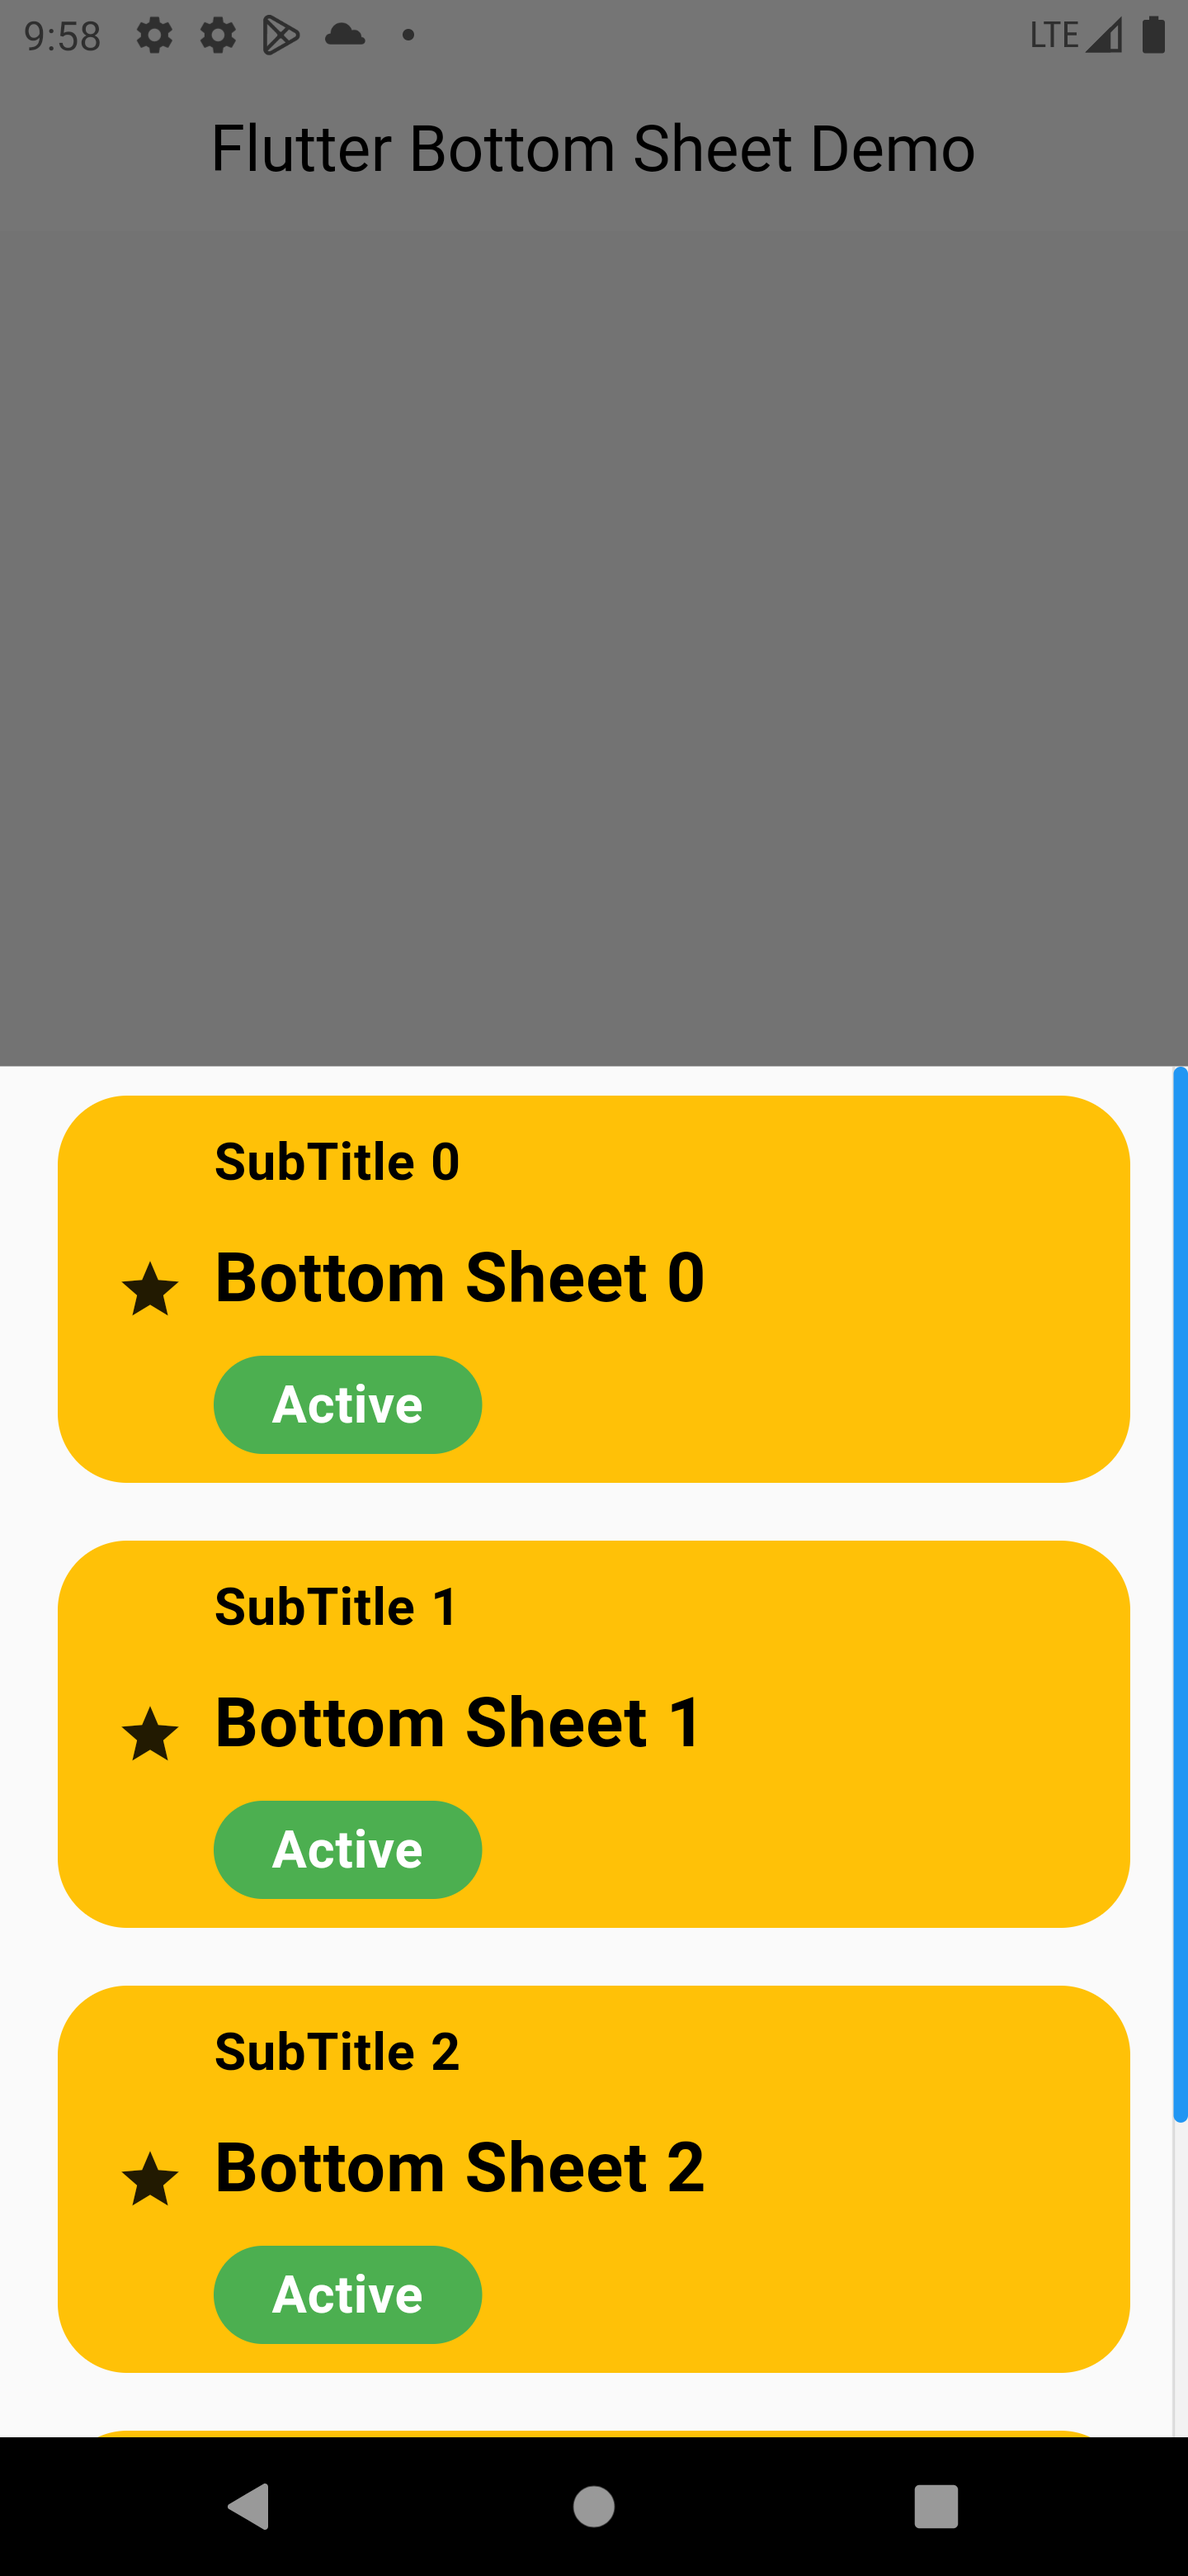
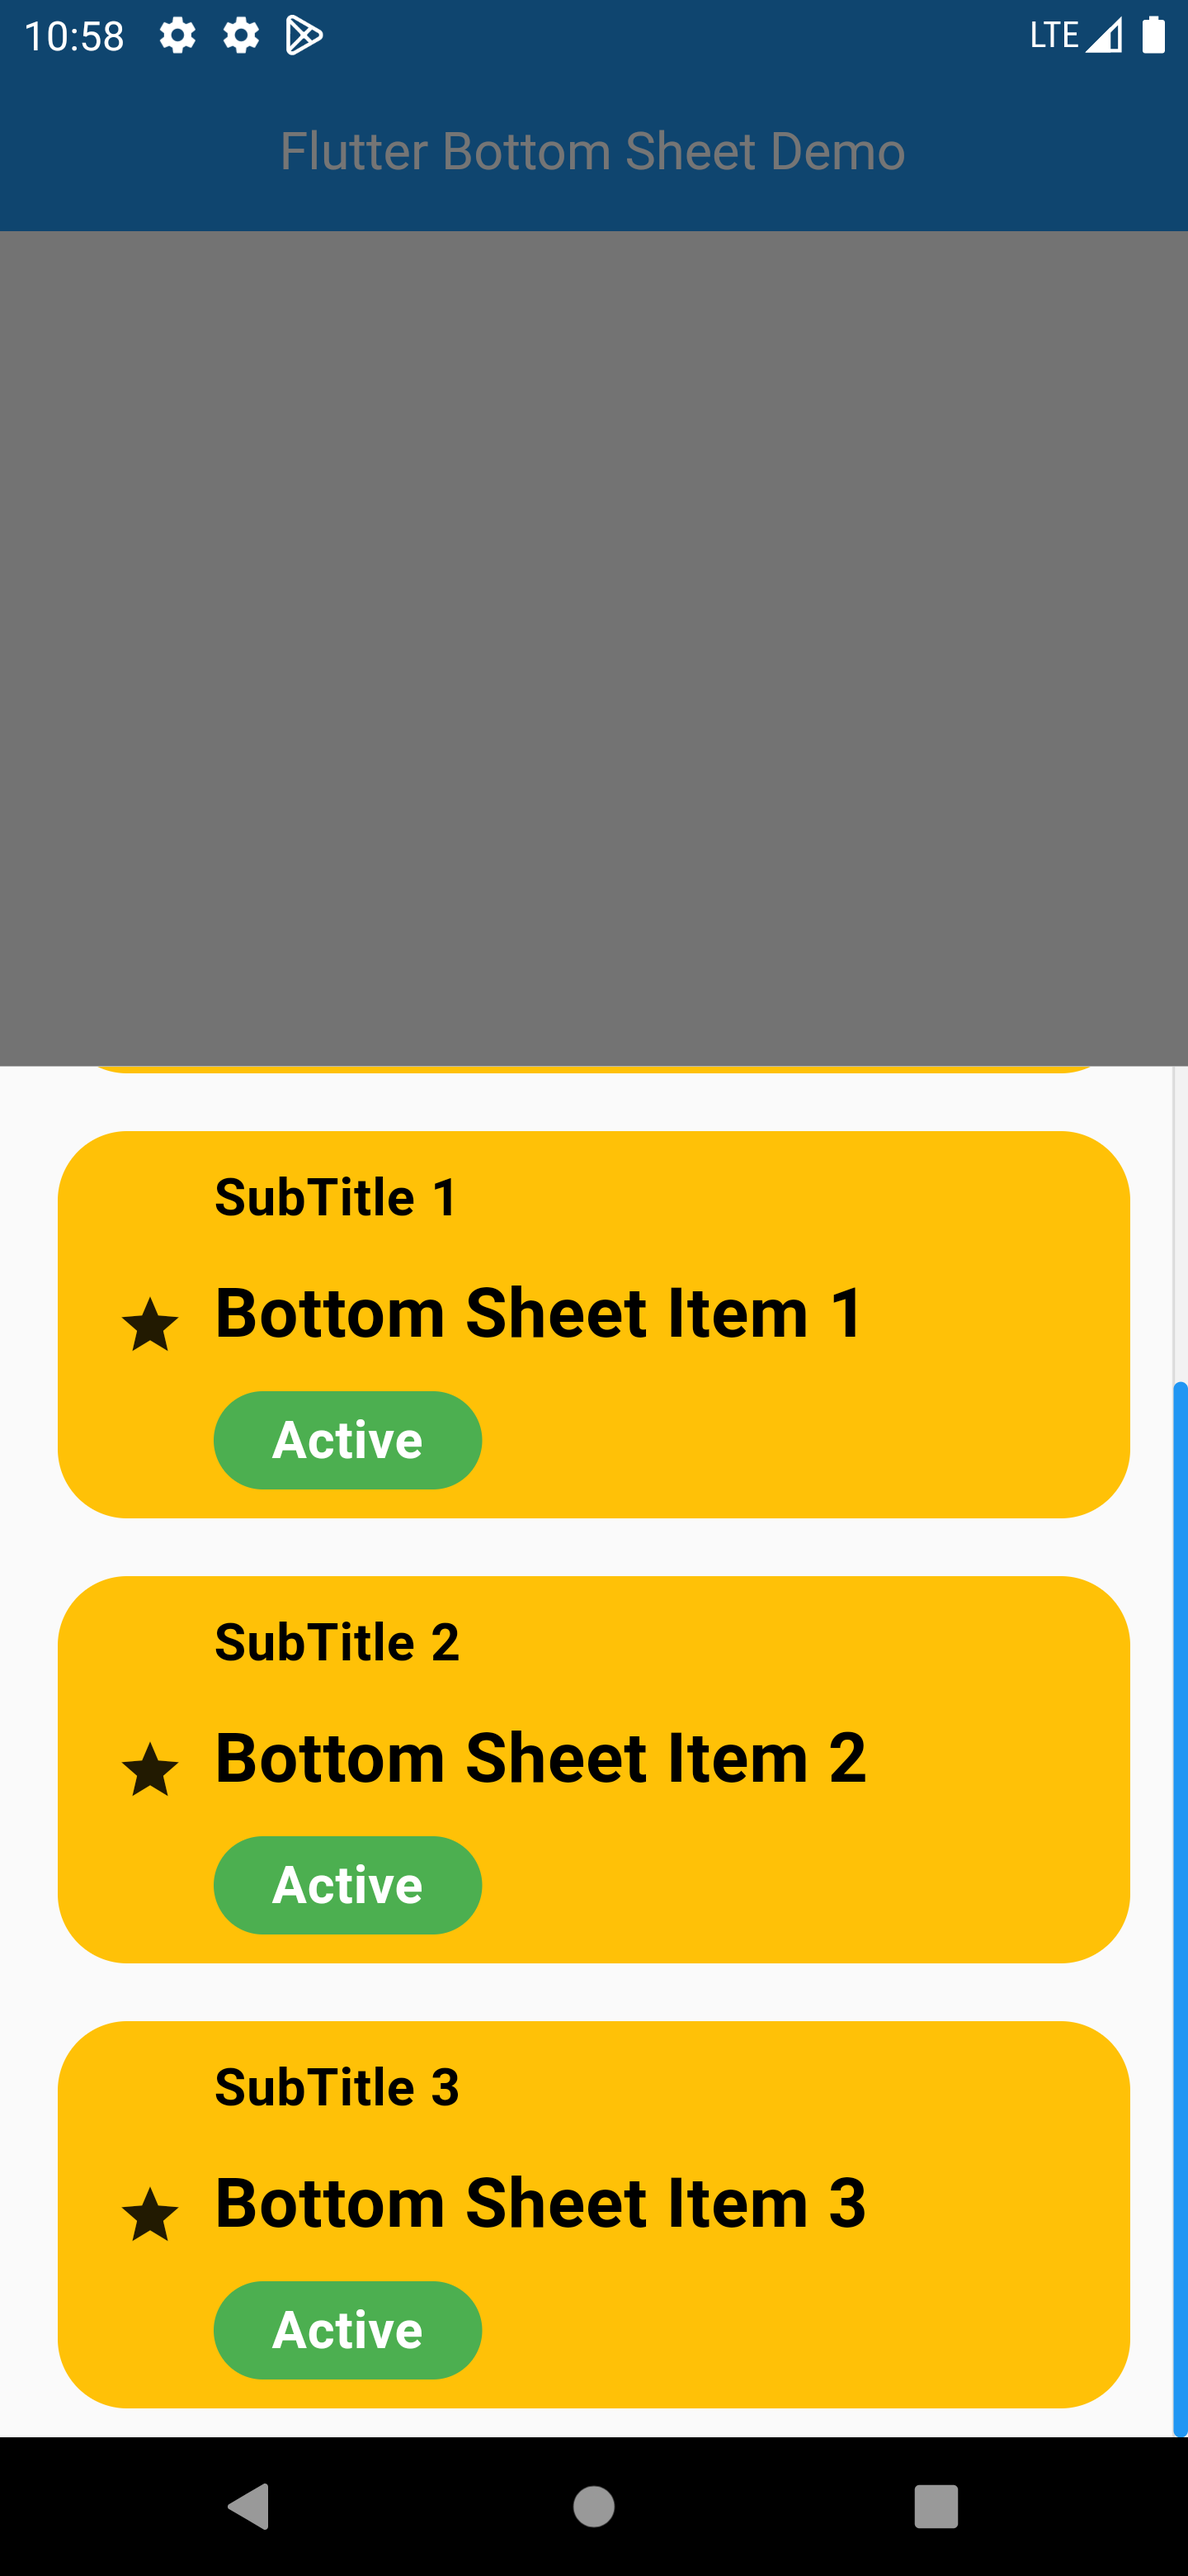
Set Background color

diff --git a/lib/pages/my_home_page.dart b/lib/pages/my_home_page.dart
@@ -13,7 +13,14 @@ class _MyHomePageState extends State<MyHomePage> {
   Widget build(BuildContext context) {
     return Scaffold(
       appBar: AppBar(
-        title: const Text('Flutter Bottom Sheet Demo'),
+        backgroundColor: Colors.blue,
+        title: const Text(
+          'Flutter Bottom Sheet Demo',
+          style: TextStyle(
+            color: Colors.white,
+            fontSize: 18,
+          ),
+        ),
         centerTitle: true,
       ),
       body: Center(
@@ -41,7 +48,20 @@ class _MyHomePageState extends State<MyHomePage> {
                       });
                     });
               },
-              child: const Text('TAP HERE TO SHOW'),
+              child: Container(
+                decoration: BoxDecoration(
+                  color: Colors.blue,
+                  borderRadius: BorderRadius.circular(24),
+                ),
+                padding: const EdgeInsets.all(10),
+                child: const Text(
+                  'TAP HERE TO SHOW',
+                  style: TextStyle(
+                    color: Colors.white,
+                    fontSize: 18,
+                  ),
+                ),
+              ),
             ),
           ],
         ),

diff --git a/lib/widgets/bottom_sheet_item_card.dart b/lib/widgets/bottom_sheet_item_card.dart
@@ -66,7 +66,7 @@ class BottomSheetItemCard extends StatelessWidget {
                           Padding(
                             padding: const EdgeInsets.symmetric(vertical: 10),
                             child: Text(
-                              'Bottom Sheet $index',
+                              'Bottom Sheet Item $index',
                               textAlign: TextAlign.left,
                               style: const TextStyle(
                                 fontWeight: FontWeight.bold,
